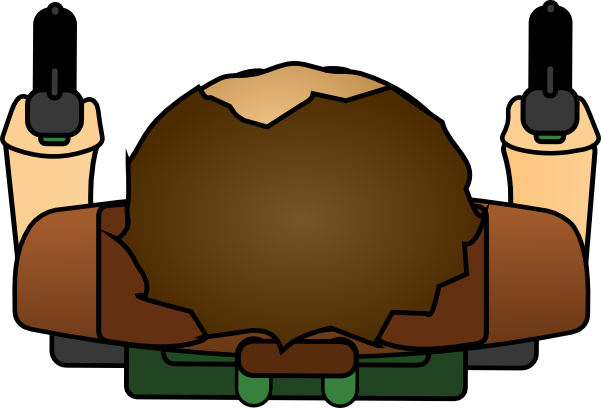
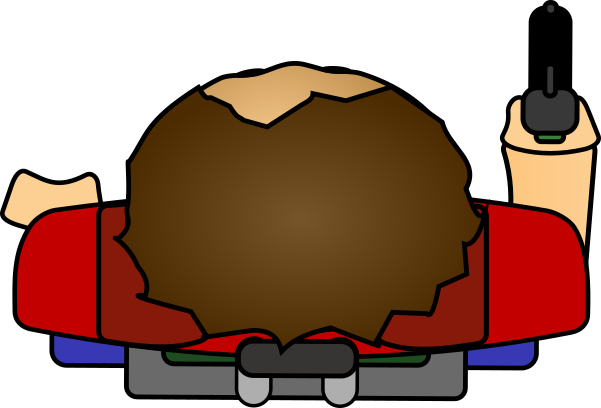
Moving and rotating players!

Changed region(s): [[0.0, 0.0, 0.9884, 1.0]]

diff --git a/TopDownShooter/ArenaScene.cs b/TopDownShooter/ArenaScene.cs
@@ -120,9 +120,11 @@ namespace TopDownShooter
                     new HumanInputControllerComponent(),
                     new PlayerColliderComponent(focusedPlayerId, this.collisionSystem),
                     new AnimationComponentManager(
-                        new AnimationComponent("Walk", "hoodieguy", new FrameProperties(76, 140, TimeSpan.FromSeconds(.1), 2)) { IsLooping = true, IsAnimating = true, IsRendered = true },
+                        new AnimationComponent("Stand", "SpriteSheets/red-standing-still", new FrameProperties(200, 141, TimeSpan.MaxValue, 1)) { IsRendered = true },
+                        new AnimationComponent("Walk", "SpriteSheets/red-walking", new FrameProperties(200, 143, TimeSpan.FromSeconds(.2), 1)) { IsLooping = true, IsAnimating = true },
                         new AnimationComponent("Death", "hoodieguyOnFire", new FrameProperties(76, 140, TimeSpan.FromSeconds(.1), 2)) { IsLooping = true }),
-                    new PlayerInventoryComponent(this.collisionSystem)
+                    new PlayerInventoryComponent(this.collisionSystem),
+                    new DebugComponent(Color.Red, 2)
                 });
 
             this.focusedPlayer.Name = $"Player {focusedPlayerId}";
@@ -144,7 +146,8 @@ namespace TopDownShooter
                         new SimpleAiInputControllerComponent(this.random),
                         new PlayerColliderComponent(id, this.collisionSystem),
                         new AnimationComponentManager(
-                            new AnimationComponent("Walk", "hoodieguy", new FrameProperties(76, 140, TimeSpan.FromSeconds(.1), 2)) { IsLooping = true, IsAnimating = true, IsRendered = true },
+                            new AnimationComponent("Stand", "SpriteSheets/red-standing-still", new FrameProperties(200, 141, TimeSpan.MaxValue, 1)) { IsRendered = true },
+                            new AnimationComponent("Walk", "SpriteSheets/red-walking", new FrameProperties(200, 143, TimeSpan.FromSeconds(.2), 1)) { IsLooping = true, IsAnimating = true, IsRendered = true },
                             new AnimationComponent("Death", "hoodieguyOnFire", new FrameProperties(76, 140, TimeSpan.FromSeconds(.1), 2)) { IsLooping = true }),
                         new PlayerInventoryComponent(this.collisionSystem)
                     });

diff --git a/TopDownShooter.Engine/AnimationComponentManager.cs b/TopDownShooter.Engine/AnimationComponentManager.cs
@@ -130,6 +130,11 @@ namespace TopDownShooter.Engine
         /// <param name="message">The message object.</param>
         public void ReceiveMessage(IGameObject gameObject, ComponentMessage message)
         {
+            if (message.MessageType == MessageType.Movement)
+            {
+                Vector2 vector = (Vector2)message.MessageDetails;
+                this.currentAnimationComponent.Rotation = (float)Math.Atan2(vector.Y, vector.X) + (float)(Math.PI / 2);
+            }
         }
 
         /// <summary>

diff --git a/TopDownShooter.Engine/Controllers/InputControllerComponentBase.cs b/TopDownShooter.Engine/Controllers/InputControllerComponentBase.cs
@@ -100,6 +100,11 @@ namespace TopDownShooter.Engine.Controllers
 
             this.Direction.Normalize();
             gameObject.Velocity = this.Direction * this.speed;
+
+            if (gameObject.Velocity.Length() > 0)
+            {
+                gameObject.BroadcastMessage(new ComponentMessage(MessageType.Movement, gameObject.Velocity));
+            }
         }
 
         /// <summary>

diff --git a/TopDownShooter.Engine/Player.cs b/TopDownShooter.Engine/Player.cs
@@ -135,7 +135,7 @@ namespace TopDownShooter.Engine
             }
             else if (this.Velocity.Equals(Vector2.Zero))
             {
-                this.animationComponentManager.Stop();
+                this.animationComponentManager.Play("Stand");
             }
             else
             {
